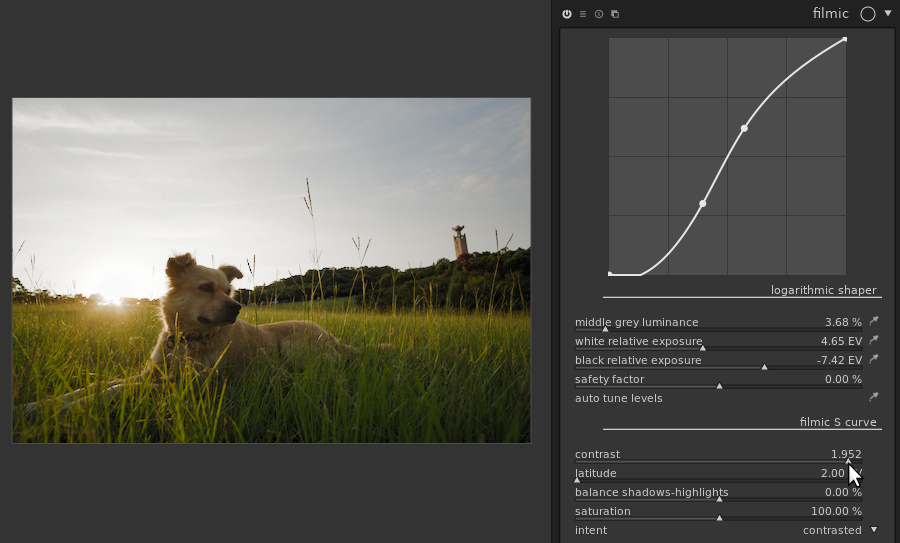
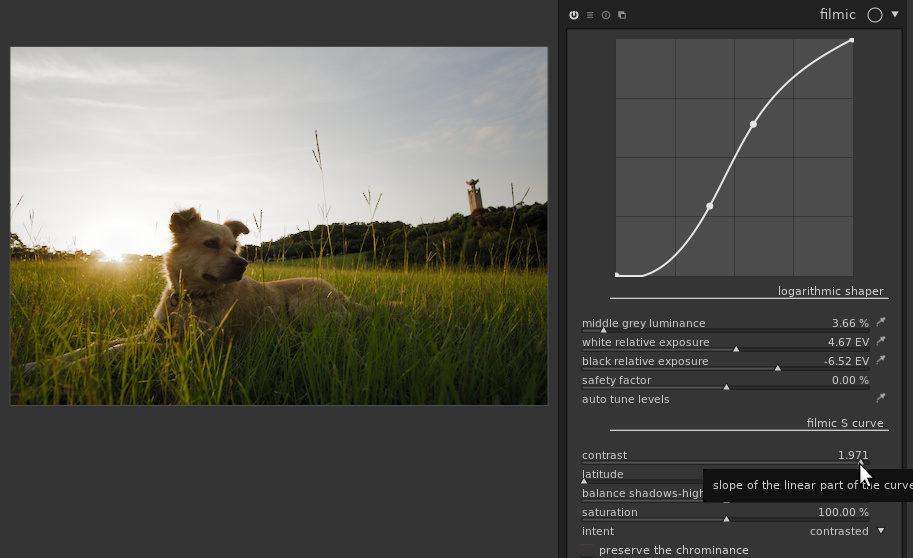
Redo filmic screenshots with last version of dt

diff --git a/content/blog/2018-12-25-darktable-2.6/2018-12-25-darktable-2.6.md b/content/blog/2018-12-25-darktable-2.6/2018-12-25-darktable-2.6.md
@@ -375,7 +375,7 @@ A source of inspiration behind *filmic* is analog film. One difference
 between analog film and digital sensors is the way they react to
 overexposure. Digital sensors have a clipping threshold above which
 everything is considered white: they can't distinguish between pixels
-slightly above the threshold and pixels grossly overexpose. Analog
+slightly above the threshold and pixels grossly overexposed. Analog
 film respond differently: contrast is reduced progressively as the
 image is overexposed, without this threshold effect. This allows
 analog films to render a scene with a high dynamic range on a medium
@@ -417,7 +417,7 @@ The first thing displayed in the *filmic* module is an overview of the
 curve applied to the image. The curve is not editable directly, the
 point of the module being to compute the curve from the sliders below.
 
-To get a good starting point, *filmic* provides an "auto tune level"
+To get a good starting point, *filmic* provides an "auto tune levels"
 picker. By default, it considers the whole image, and sets the three
 sliders above based on average luminance, brightest area and darkest
 area:
@@ -463,6 +463,11 @@ brighter image:
   <div style="text-align: center">
   ![Middle grey on the dog's nose]({filename}filmic-middle-grey-nose.jpg)
   </div>
+
+Note that we've selected an area which is almost the darkest part of
+the image, so we're really putting *filmic* to the test and shouldn't
+hope a great result. Still, the nose is properly exposed and the rest
+of the image is as good as it can be given the constraints.
 
 On the other hand, if we select a bright area in the sky, the overall
 exposure is lowered to get proper exposure on the sky:
